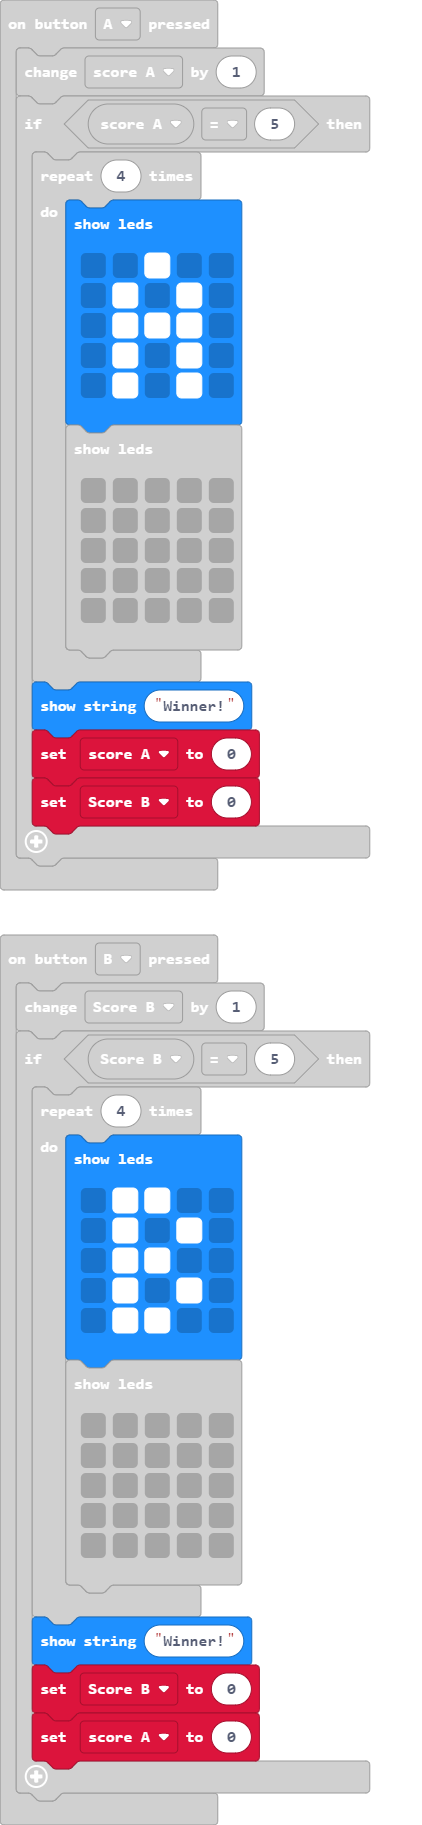
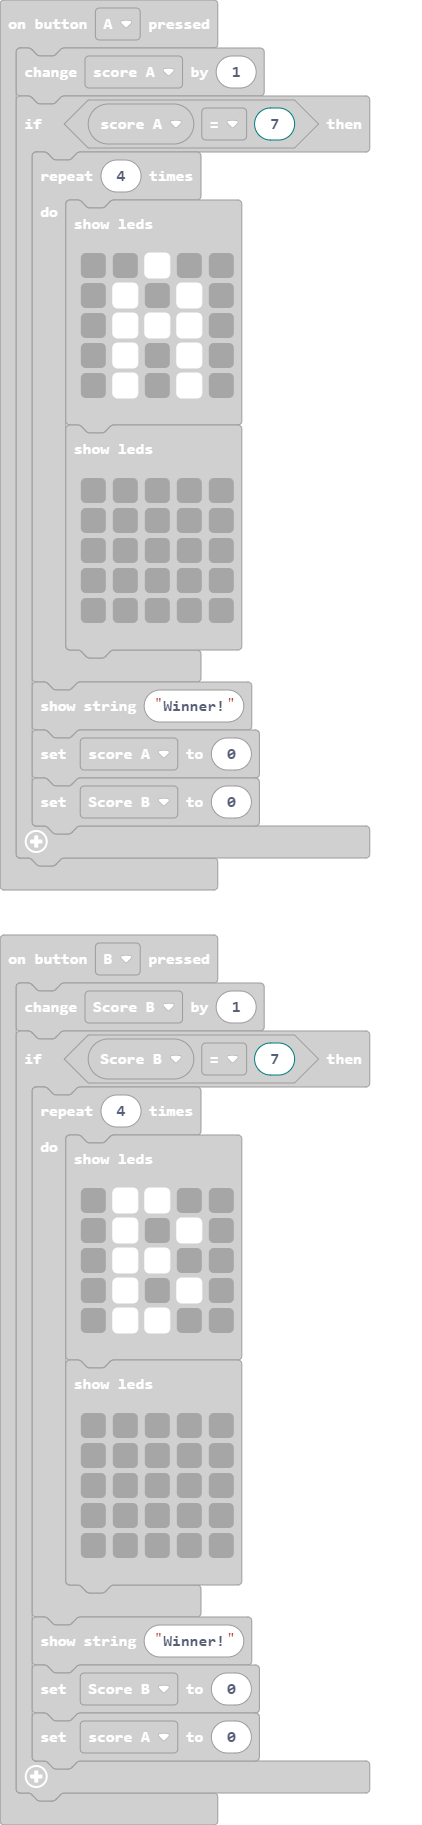
Update main.blocks, main.ts

diff --git a/main.ts b/main.ts
@@ -3,7 +3,7 @@ let Score_B = 0
 let set_hand_to = 0
 input.onButtonPressed(Button.A, function () {
     score_A += 1
-    if (score_A == 5) {
+    if (score_A == 7) {
         for (let index = 0; index < 4; index++) {
             basic.showLeds(`
                 . . # . .
@@ -27,7 +27,7 @@ input.onButtonPressed(Button.A, function () {
 })
 input.onButtonPressed(Button.B, function () {
     Score_B += 1
-    if (Score_B == 5) {
+    if (Score_B == 7) {
         for (let index = 0; index < 4; index++) {
             basic.showLeds(`
                 . # # . .
